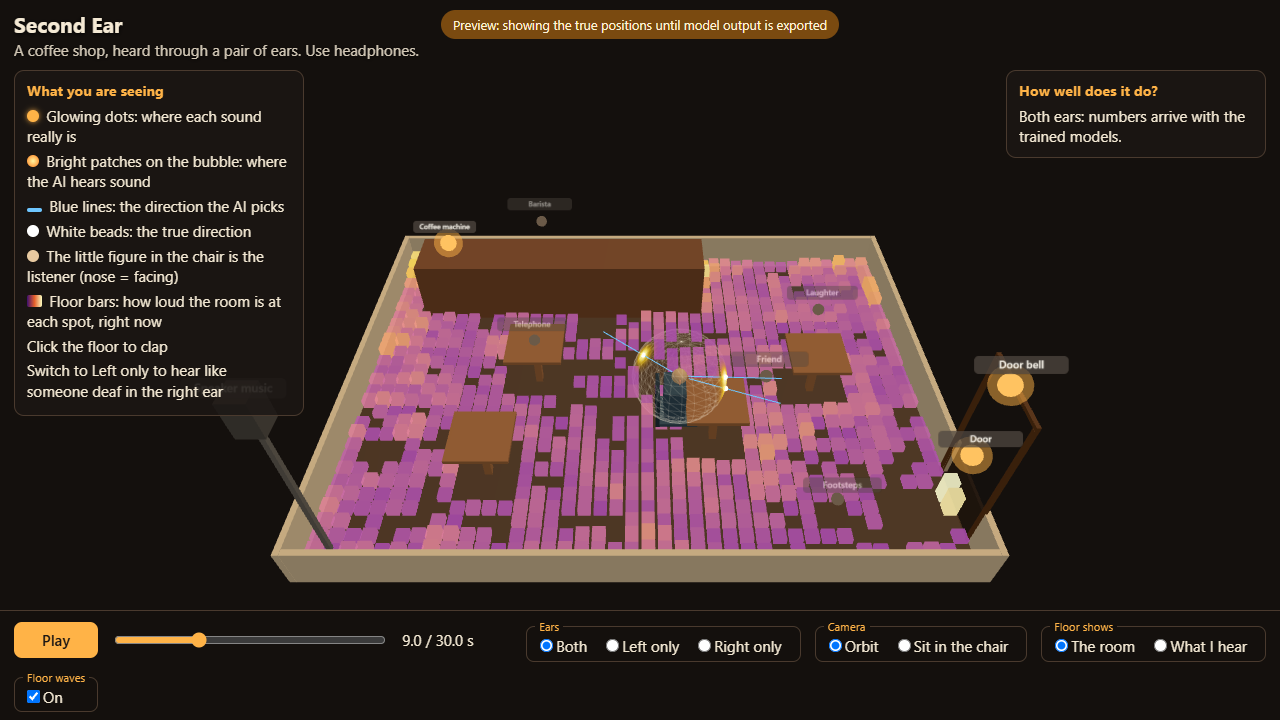
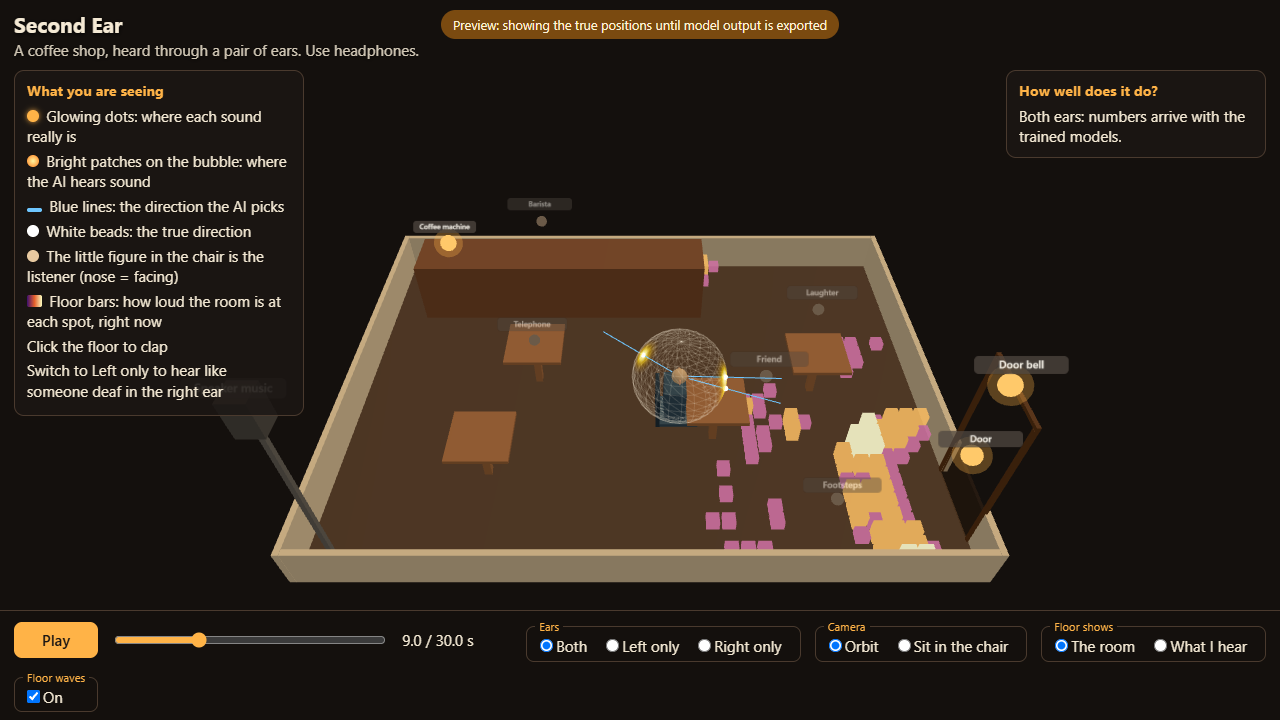
[UPDATE] - C4.2 floor bars clarity pass

Changed region(s): [[0.2188, 0.3361, 0.7812, 0.7639], [0.75, 0.5194, 0.8125, 0.5806]]

diff --git a/web/floor.js b/web/floor.js
@@ -15,10 +15,16 @@ const H = 0.1;            // sim cell, metres
 const C_VIS = 5.0;        // visual speed of sound, m/s
 const COURANT = 0.5;
 const DT = COURANT * H / C_VIS; // 0.01 s
-const DAMP = 0.008;       // fraction of pressure lost per step (energy halves in ~0.9 s)
+const DAMP = 0.02;        // fraction of pressure lost per step (energy halves in ~0.35 s)
+const WALL_R = 0.7;       // wall pressure reflection coefficient (furniture stays rigid)
+const WALL_BETA = (1 - WALL_R) / (1 + WALL_R); // wall admittance: outward v = BETA * p
+const PULSE_PERIOD = 0.9; // seconds between pulses of one source (phase-staggered per source)
+const HP_TAU = 0.3;       // s, slow running mean subtracted from the envelope (high-pass)
+const SHOW_FRAC = 0.15;   // hide bars below this fraction of the frame's max
+const LEVELS = 3;         // colour/height steps
 const MAX_STEPS = 6;      // per frame, so a slow frame cannot snowball
 const PULSE_S = 0.1;      // width of one injected pulse, seconds
-const ENV_REF = 0.35;     // envelope that maps to a full-height bar
+const ENV_REF = 0.25;     // minimum 'full-height' reference for the high-passed envelope
 const MAX_BAR = 0.4;      // metres
 const CLAP_AMP = 1.6, CLAP_SIGMA = 1.6; // clap: gaussian blob in p, sigma in sim cells
 
@@ -57,6 +63,7 @@ export class Floor {
     this.vx = new Float32Array((NX + 1) * NY);
     this.vy = new Float32Array(NX * (NY + 1));
     this.env = new Float32Array(NX * NY);
+    this.slow = new Float32Array(NX * NY);
     this.solid = new Uint8Array(NX * NY);
     this.coefX = new Float32Array((NX + 1) * NY);
     this.coefY = new Float32Array(NX * (NY + 1));
@@ -81,18 +88,17 @@ export class Floor {
 
     // Sources: snap to the nearest fluid cell (the barista and coffee machine sit inside the
     // counter's footprint, the phone inside a table's).
-    this.sources = def.sources.map((s) => {
-      const [rate, strength] = CLASS_PULSE[s.class] || [2, 1];
+    this.sources = def.sources.map((s, idx) => {
+      const [, strength] = CLASS_PULSE[s.class] || [2, 1];
       const cell = this.nearestFluid(Math.min(NX - 1, Math.floor(s.pos[0] / H)), Math.min(NY - 1, Math.floor(s.pos[1] / H)));
-      return { cell, rate, amp: strength * Math.pow(10, (s.gain_db || 0) / 20), intervals: s.intervals, on: false };
+      return { cell, rate: 1 / PULSE_PERIOD, phase: (idx * 0.382) % 1, amp: strength * Math.pow(10, (s.gain_db || 0) / 20), intervals: s.intervals, on: false };
     });
 
     // Display grid.
     this.dense = !!opts.dense;
     this.ds = this.dense ? 1 : 2;                 // sim cells per bar side
-    this.decay = Math.exp(-DT / (this.dense ? 0.9 : 0.15)); // envelope decay per step
-    this.thresh = this.dense ? 0.02 : 0.2;
-    this.gamma = this.dense ? 1.0 : 0.8;
+    this.decay = Math.exp(-DT / (this.dense ? 0.9 : 0.15));
+    this.hpK = 1 - Math.exp(-DT / HP_TAU); // envelope decay per step
     this.BX = NX / this.ds; this.BY = NY / this.ds;
     const nBars = this.BX * this.BY;
     const fill = this.dense ? 0.95 : 0.82;
@@ -168,7 +174,7 @@ export class Floor {
     if (on) this.reset();
   }
 
-  reset() { this.p.fill(0); this.vx.fill(0); this.vy.fill(0); this.env.fill(0); this.acc = 0; }
+  reset() { this.p.fill(0); this.vx.fill(0); this.vy.fill(0); this.env.fill(0); this.slow.fill(0); this.acc = 0; }
 
   // One strong gaussian impulse at scene position (x, y) metres.
   clap(x, y) {
@@ -192,34 +198,39 @@ export class Floor {
 
   step() {
     const { NX, NY, p, vx, vy, env, solid, coefX, coefY, openX } = this;
-    const decay = this.decay, keep = 1 - DAMP;
+    const decay = this.decay, hpK = this.hpK, keep = 1 - DAMP;
     // sources: smooth Hann pulse train per active source
     for (const s of this.sources) {
       if (!s.on) continue;
-      const ph = (this.simT * s.rate) % 1, w = PULSE_S * s.rate;
-      if (ph < w) p[s.cell] += 1.0 * s.amp * (1 - Math.cos(2 * Math.PI * ph / w));
+      const ph = (this.simT * s.rate + s.phase) % 1, w = PULSE_S * s.rate;
+      if (ph < w) p[s.cell] += 2.0 * s.amp * (1 - Math.cos(2 * Math.PI * ph / w));
     }
     // velocity from pressure gradient (zero on rigid faces; matched outflow at the door)
-    const SX = NX + 1;
+    const SX = NX + 1, dense = this.dense;
     for (let j = 0; j < NY; j++) {
       const r = j * SX, q = j * NX;
       for (let i = 1; i < NX; i++) vx[r + i] = (vx[r + i] - COURANT * (p[q + i] - p[q + i - 1])) * coefX[r + i];
-      vx[r] = 0;
-      vx[r + NX] = openX[j] ? p[q + NX - 1] : 0;
+      vx[r] = dense ? 0 : -WALL_BETA * p[q];
+      vx[r + NX] = openX[j] ? p[q + NX - 1] : (dense ? 0 : WALL_BETA * p[q + NX - 1]);
     }
     for (let j = 1; j < NY; j++) {
       const r = j * NX;
       for (let i = 0; i < NX; i++) vy[r + i] = (vy[r + i] - COURANT * (p[r + i] - p[r - NX + i])) * coefY[r + i];
     }
+    if (!dense) for (let i = 0; i < NX; i++) { // partly absorbing top/bottom walls
+      vy[i] = -WALL_BETA * p[i];
+      vy[NY * NX + i] = WALL_BETA * p[(NY - 1) * NX + i];
+    }
     // pressure from velocity divergence, damping, envelope (fast attack, exponential decay)
     for (let j = 0; j < NY; j++) {
       for (let i = 0; i < NX; i++) {
         const k = j * NX + i;
-        if (solid[k]) { p[k] = 0; env[k] = 0; continue; }
+        if (solid[k]) { p[k] = 0; env[k] = 0; this.slow[k] = 0; continue; }
         const v = (p[k] - COURANT * (vx[j * SX + i + 1] - vx[j * SX + i] + vy[k + NX] - vy[k])) * keep;
         p[k] = v;
         const a = v < 0 ? -v : v, e = env[k] * decay;
         env[k] = a > e ? a : e;
+        this.slow[k] += (env[k] - this.slow[k]) * hpK;
       }
     }
     this.simT += DT;
@@ -252,29 +263,38 @@ export class Floor {
   }
 
   draw() {
-    const { BX, BY, ds, NX, env } = this;
+    const { BX, BY, ds, NX, env, slow, dense } = this;
     const m = this.mesh.instanceMatrix.array, col = this.mesh.instanceColor.array;
     const wts = this.shows === 'hear' ? this.weights[this.ears] : null;
-    const inv = 1 / ENV_REF, bw = this.bw, thr = this.thresh, gam = this.gamma;
+    const bw = this.bw, nB = BX * BY;
+    if (!this.val) this.val = new Float32Array(nB);
+    const val = this.val;
+    let mx = 0;
     for (let bj = 0; bj < BY; bj++) {
       for (let bi = 0; bi < BX; bi++) {
         const b = bj * BX + bi;
         let e = 0;
         if (!this.barBlocked[b]) {
           for (let dj = 0; dj < ds; dj++) for (let di = 0; di < ds; di++) {
-            const v = env[(bj * ds + dj) * NX + bi * ds + di];
+            const k = (bj * ds + dj) * NX + bi * ds + di;
+            const v = dense ? env[k] : Math.max(0, env[k] - slow[k]); // change, not level
             if (v > e) e = v;
           }
           if (wts) e *= wts[b];
         }
-        let n = e * inv; if (n > 1) n = 1;
-        n = Math.pow(n, gam);
-        const o = b * 16;
-        if (n < thr) { m[o] = 0; m[o + 5] = 0; m[o + 10] = 0; continue; }
-        m[o] = bw; m[o + 10] = bw; m[o + 5] = MAX_BAR * n;
-        const c = (Math.round(n * 255)) * 3;
-        col[b * 3] = LUT[c]; col[b * 3 + 1] = LUT[c + 1]; col[b * 3 + 2] = LUT[c + 2];
+        val[b] = e; if (e > mx) mx = e;
       }
+    }
+    const ref = dense ? 0.35 : Math.max(mx, ENV_REF);
+    const thr = dense ? 0.02 : SHOW_FRAC;
+    for (let b = 0; b < nB; b++) {
+      let n = val[b] / ref; if (n > 1) n = 1;
+      const o = b * 16;
+      if (n < thr) { m[o] = 0; m[o + 5] = 0; m[o + 10] = 0; continue; }
+      if (!dense) n = Math.min(LEVELS, Math.max(1, Math.ceil(n * LEVELS))) / LEVELS; // 2-3 steps
+      m[o] = bw; m[o + 10] = bw; m[o + 5] = MAX_BAR * n;
+      const c = (Math.round(n * 255)) * 3;
+      col[b * 3] = LUT[c]; col[b * 3 + 1] = LUT[c + 1]; col[b * 3 + 2] = LUT[c + 2];
     }
     this.mesh.instanceMatrix.needsUpdate = true;
     this.mesh.instanceColor.needsUpdate = true;
